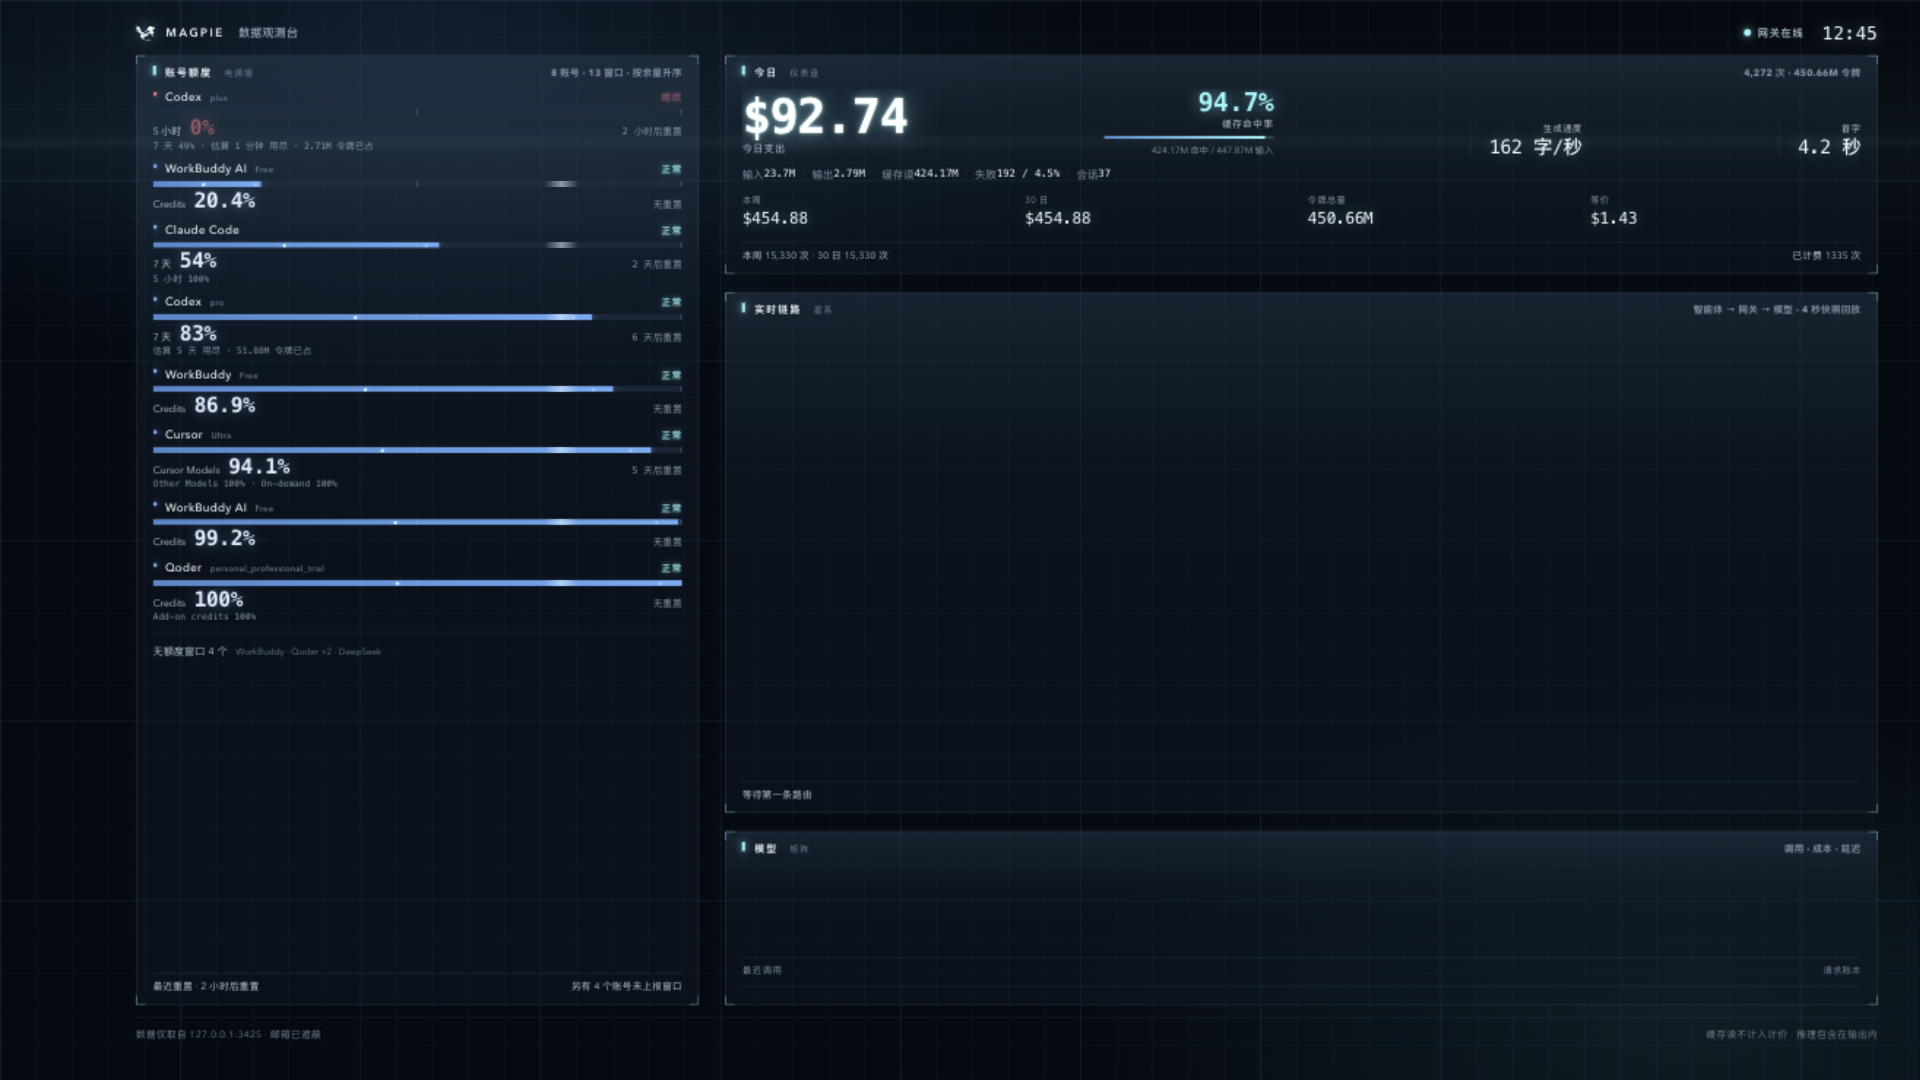
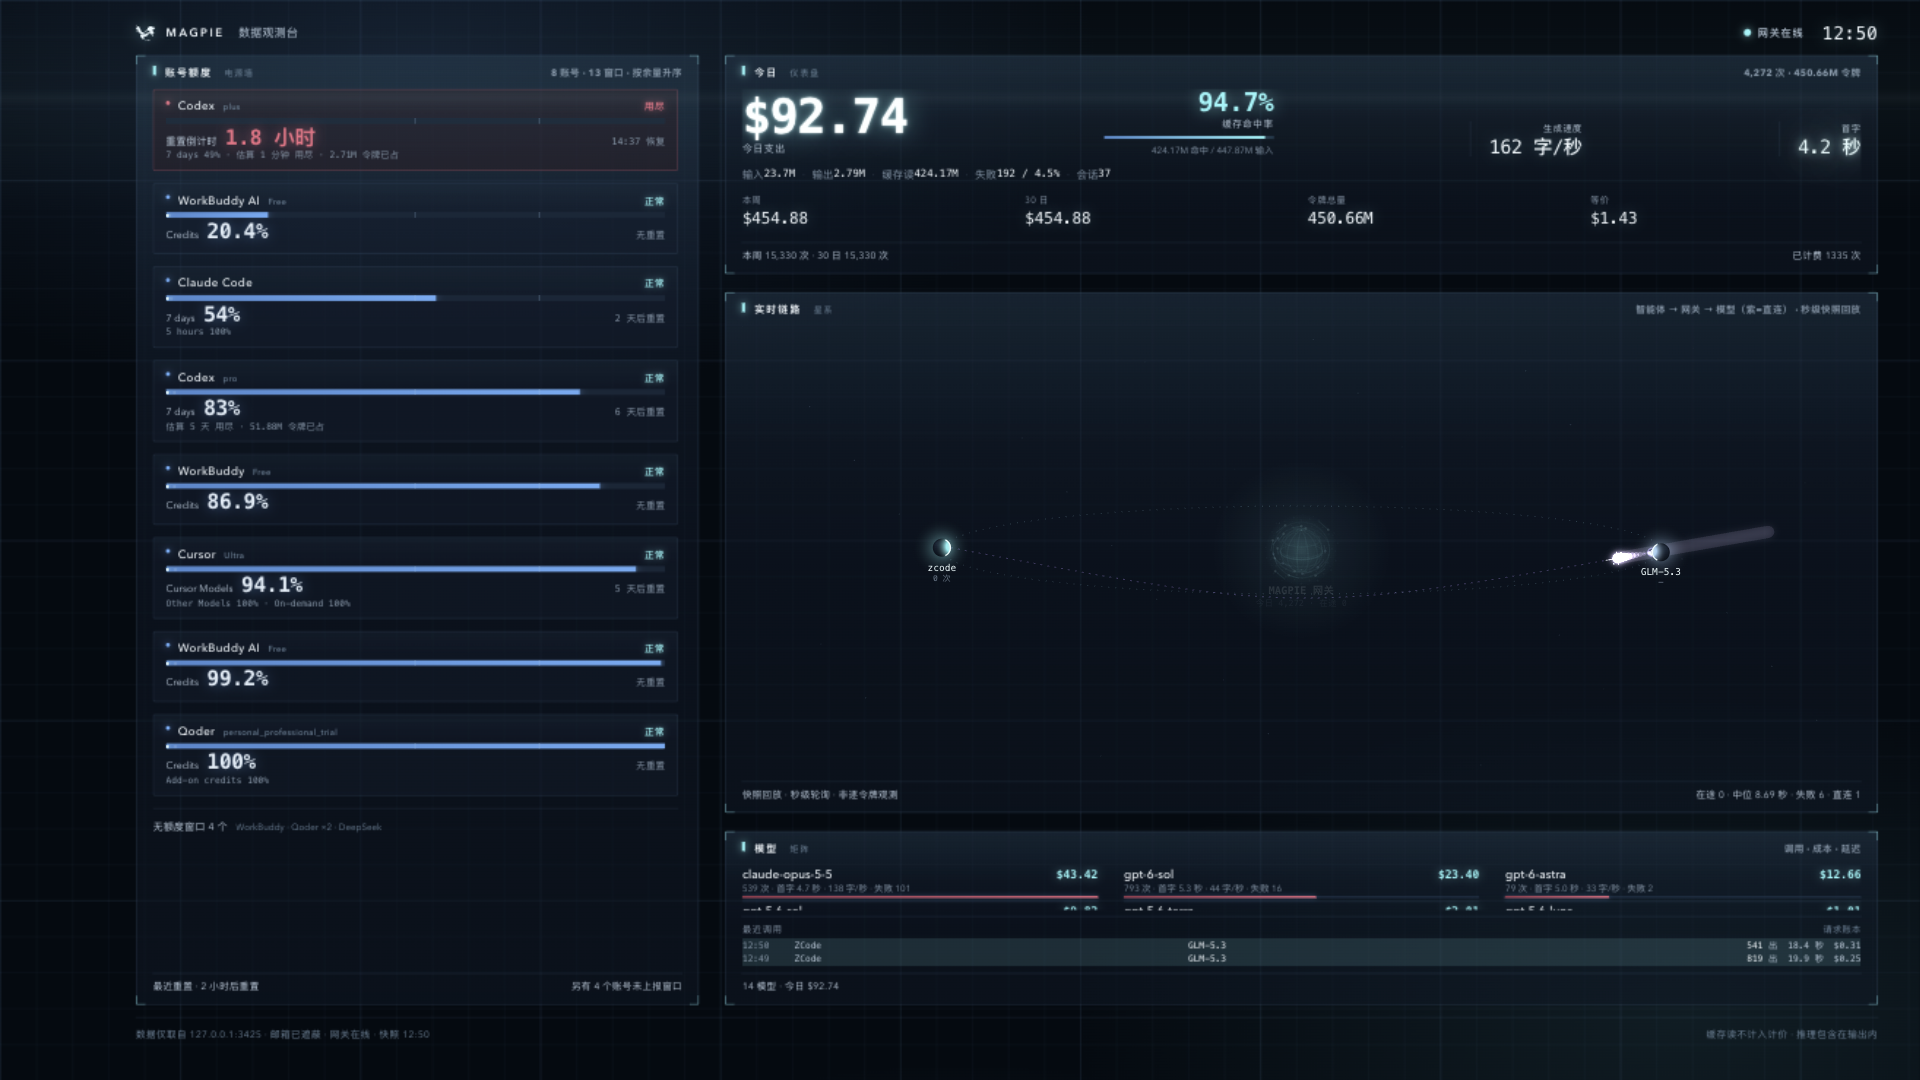
窗口名恢复原文、账号机架单元分隔、1 秒快循环与粒子流传输

diff --git a/design/dashboard.js b/design/dashboard.js
@@ -214,12 +214,6 @@
     return { name: line.name, etaH };
   }
   const etaText = (h) => h < 1 ? Math.max(1, Math.round(h * 60)) + ' 分钟' : h < 48 ? h.toFixed(1) + ' 小时' : Math.round(h / 24) + ' 天';
-  /* 窗口名中文化：网关返回的是 5 hours / 7 days / Total 这类英文名，展示层映射成中文；
-     没映射的（新窗口类型）原样显示，数据关联始终用原始名。 */
-  const WIN_CN = { '5 hours': '5 小时', '7 days': '7 天', '1 day': '1 天', '24 hours': '24 小时',
-                   '30 days': '30 天', '1 week': '1 周', '1 month': '1 月', 'total': '总量', 'Total': '总量' };
-  const winName = (n) => WIN_CN[n] || n;
-
   function renderQuotas(quotas, history) {
     const accounts = quotas.data || [];
     // 整块右侧全给额度：按账号分组，每个账号列出它所有窗口，不折叠、不裁切。
@@ -308,7 +302,7 @@
           main.children[1].textContent = resetShort(lead.resetsAt);
           main.children[2].textContent = lead.resetsAt ? clockOf(lead.resetsAt) + ' 恢复' : '';
         } else {
-          main.children[0].textContent = winName(lead.name) || '额度';
+          main.children[0].textContent = lead.name || '额度';
           main.children[1].textContent = typeof lead.remaining === 'number' ? pct(lead.remaining) : (lead.display || '—');
           main.children[2].textContent = resetText(lead.resetsAt);
         }
@@ -324,7 +318,7 @@
         // 小字行：其余窗口「名 剩余」串 + 估算 + 占用，一行收拢。
         const bits = [];
         g.wins.slice(1).forEach((w) => {
-          bits.push(winName(w.name) + ' ' + (typeof w.remaining === 'number' ? pct(w.remaining) : (w.display || '—')));
+          bits.push(w.name + ' ' + (typeof w.remaining === 'number' ? pct(w.remaining) : (w.display || '—')));
         });
         if (g.eta && g.eta.name === lead.name) bits.push('估算 ' + etaText(g.eta.etaH) + ' 用尽');
         if (lead.holds && lead.holds.tokens) bits.push(compact(lead.holds.tokens) + ' 令牌已占');
@@ -343,7 +337,7 @@
       !!nearest && (new Date(nearest.resetsAt) - Date.now()) / 60000 < 90);
     $('quota-foot2').textContent = noWin
       ? '另有 ' + noWin + ' 个账号未上报窗口'
-      : (fastest ? '最快燃尽 · ' + winName(fastest.name) + ' · 估算 ' + etaText(fastest.etaH) + ' 用尽' : '');
+      : (fastest ? '最快燃尽 · ' + fastest.name + ' · 估算 ' + etaText(fastest.etaH) + ' 用尽' : '');
     $('quota-foot2').classList.toggle('soon', !noWin && !!fastest);
   }
 
@@ -572,7 +566,6 @@
   }
 
   function drawRouteComet(ctx, p, t0, t1, color, width, now, reduce) {
-    const steps = 10;
     ctx.save();
     ctx.lineCap = 'round';
     ctx.shadowColor = color;
@@ -590,31 +583,17 @@
       }
       ctx.stroke();
     }
-    // 外圈柔光：一次更宽更淡的描边，给彗星体积感。
-    ctx.globalAlpha = 0.09;
-    ctx.lineWidth = width * 2.8;
-    ctx.strokeStyle = color;
-    {
-      const [sx, sy] = cubicAt(p, t0);
-      const [ex, ey] = cubicAt(p, t1);
+    // 粒子流：一串光点沿路径传输（近头部大而亮，向尾端小而暗），像数据在管道里流动。
+    const DOTS = 9;
+    for (let k = 0; k < DOTS; k += 1) {
+      const tt = t1 - (k / DOTS) * (t1 - t0);
+      const [dx2, dy2] = cubicAt(p, tt);
+      const fade = 1 - k / DOTS;
+      ctx.globalAlpha = 0.16 + 0.74 * fade * fade;
+      ctx.fillStyle = k < 3 ? '#dffcff' : color;
       ctx.beginPath();
-      ctx.moveTo(sx, sy);
-      ctx.lineTo(ex, ey);
-      ctx.stroke();
-    }
-    // 尾巴：淡 → 亮两段，头部一颗亮点。
-    for (let i = 0; i < steps; i += 1) {
-      const a = t0 + (t1 - t0) * (i / steps);
-      const b = t0 + (t1 - t0) * ((i + 1) / steps);
-      ctx.strokeStyle = color;
-      ctx.globalAlpha = 0.12 + 0.7 * (i / steps);
-      ctx.lineWidth = width * (0.5 + 0.5 * (i / steps));
-      ctx.beginPath();
-      const [x0, y0] = cubicAt(p, a);
-      const [x1, y1] = cubicAt(p, b);
-      ctx.moveTo(x0, y0);
-      ctx.lineTo(x1, y1);
-      ctx.stroke();
+      ctx.arc(dx2, dy2, Math.max(0.6, width * (1.35 - k * 0.11)), 0, Math.PI * 2);
+      ctx.fill();
     }
     const [hx, hy] = cubicAt(p, t1);
     ctx.globalAlpha = 1;
@@ -1437,14 +1416,14 @@
     // 页脚吸收原实时数据流的关键读数：在途 / 中位耗时 / 失败。
     const okMsList = rows.filter((r) => r.done && r.ms).map((r) => r.ms);
     const badCount = rows.filter((r) => r.bad).length;
-    $('route-foot').textContent = '快照回放 · 4 秒轮询 · 非逐令牌观测';
+    $('route-foot').textContent = '快照回放 · 秒级轮询 · 非逐令牌观测';
     const directTail = directRows.length ? ' · 直连 ' + directRows.length : '';
     $('route-foot2').textContent = !rows.length && !directRows.length
       ? '等待第一条路由'
       : idle
         ? '网关待机 · 中位 ' + secs(median(okMsList)) + ' · 最近 ' + rows.length + ' 条' + directTail
         : '在途 ' + running + ' · 中位 ' + secs(median(okMsList)) + (badCount ? ' · 失败 ' + badCount : '') + directTail;
-    $('route-note').textContent = '智能体 → 网关 → 模型' + (directRows.length ? '（紫=直连）' : '') + ' · 4 秒快照回放';
+    $('route-note').textContent = '智能体 → 网关 → 模型' + (directRows.length ? '（紫=直连）' : '') + ' · 秒级快照回放';
 
     routeTick.rows = rows;
     routeTick.todayCalls = (bundle.today && bundle.today.calls) || 0;
@@ -1536,11 +1515,33 @@
   tickClock();
   setInterval(tickClock, 1000);
 
-  /* 轮询与 Watch 一致：先取数据再等待，周期 4 秒。 */
+  /* 轮询分两层：主循环 4 秒全量；快循环 1 秒只拉 trace 与请求账本，
+     星系舞台与最近调用因此接近实时。trace 是快照语义，不声称逐令牌流。 */
   (async function loop() {
     for (;;) {
       await refresh();
       await new Promise((resolve) => setTimeout(resolve, POLL_MS));
     }
   })();
+
+  let fastBusy = false;
+  async function refreshFast() {
+    if (fastBusy || !lastGood) return;
+    fastBusy = true;
+    try {
+      const [trace, requests] = await Promise.all([
+        get('/v1/magpie/trace'),
+        get('/v1/magpie/usage/requests?period=today&limit=6').catch(() => null)
+      ]);
+      lastGood.trace = trace;
+      if (requests) lastGood.requests = requests;
+      renderRouteStage(lastGood);
+      renderCalls(lastGood.requests);
+    } catch (error) {
+      // 快循环失败不打扰画面：网关状态交给主循环判定。
+    } finally {
+      fastBusy = false;
+    }
+  }
+  setInterval(refreshFast, 1000);
 })();

diff --git a/design/dashboard.css b/design/dashboard.css
@@ -449,13 +449,24 @@ main {
   grid-template-columns: minmax(0, 1fr);
   grid-auto-rows: min-content;
   align-content: start;
-  row-gap: 9px;
+  row-gap: 12px;
   /* 账号多到一屏放不下时整列滚动，绝不裁掉最后几个账号。 */
   overflow-y: auto;
   scrollbar-width: none;
+  padding-right: 4px;
 }
 .q-list::-webkit-scrollbar { width: 0; }
-.q-group { min-width: 0; }
+/* 每个账号一个机架单元：细框 + 微底色，状态异常时整格带一层淡色警示 */
+.q-group {
+  min-width: 0;
+  border: 1px solid var(--hair);
+  border-radius: 2px;
+  padding: 8px 12px 9px;
+  background: rgba(13, 28, 48, 0.38);
+  background-image: linear-gradient(180deg, rgba(111, 242, 255, 0.025), transparent 34%);
+}
+.q-group.st-warn { background-color: rgba(58, 42, 22, 0.32); border-color: rgba(255, 188, 125, 0.22); }
+.q-group.st-bad { background-color: rgba(56, 24, 26, 0.34); border-color: rgba(255, 122, 122, 0.26); }
 
 /* 账号名是这一组的主语：字号比窗口名大一档，前面一枚发光圆点 */
 .q-group > h3 {

diff --git a/HANDOFF.md b/HANDOFF.md
@@ -28,6 +28,11 @@
 - **原生界面中文化**（用户反馈「token 还保持不变」：壁纸已中文化，但菜单/窗口/小组件还是 Token）：菜单栏「Token 消耗明细…」→「令牌消耗明细…」（⌘T 不变）；消耗窗口标题/正文/「输出内推理、缓存写入 X Token」→ 令牌；上下文主项「N tok」→「N 令牌」；小组件令牌流向「Token 流向」→「令牌流向」、「tok/s」→「字/秒」（`Fmt` 速度格式同步）。模型/智能体名保留原文。
 - **右下模块：智能体 → 模型矩阵**（用户：智能体模块换成其他的）：`usage.models` 按**模型名**聚合（原始按 provider/model@账号 拆分、host 含邮箱绝不透出），今日成本降序最多 6 块——名字 + 成本 + 「N 次 · 首字 X 秒 · Y 字/秒 · 失败 N」+ **成本占比条**（有失败的模型条转红）；页脚「N 模型 · 今日 $X」；「另 N 个」合并第 7+ 个。最近调用明细带保留。智能体的活动状态由星系行星表达（调用数/中位延迟标在行星下），成本归属在「令牌消耗明细」窗口——壁纸不再重复列智能体排行。
 - **用尽读数去重**（用户：「用尽和 0% 重复了」）：用尽账号的大数字不再显示 0%（状态词已说用尽），改为**重置倒计时**——「重置倒计时 · N 分钟（大号红字）· HH:MM 恢复」，直接回答「多久回来」。
+- **专业名词 + 账号分隔 + 实时化**（用户三条反馈）：
+  - 额度窗口名恢复产品原文（5 hours / 7 days / Total）——这些是额度窗口的官方术语，不再映射中文；其余界面仍中文。
+  - 账号分隔：每个账号一个**机架单元**——细框 + 微底色 + 间距 12px，状态异常整格带淡色警示底（紧张/用尽红调、临近重置琥珀调），一眼分清账号边界。
+  - **1 秒快循环**：主循环仍 4 秒全量；新增 `refreshFast`（1s，只拉 trace + 请求账本，in-flight 防重入，失败静默）驱动星系舞台与最近调用，接近实时；文案改「秒级快照回放」（trace 仍是快照语义，不声称逐令牌流）。
+  - **粒子流传输**：彗星尾迹从实线光带改为一串 9 颗光点沿路径流动（近头部大而亮→尾端小而暗），配合宽辉光尾流，观感是「数据在管道里传输」。
 - 本轮验证：真实数据截图核对（燃尽曲线下降形态、估算 3.7 小时、节奏图峰值 158 次 @13 时、占比条与活跃标注）；全屏概览与桌面全量两态截图确认；`impeccable detect` 无 error；`swift build` / `swift test` / `./build-app.sh` 通过。
 
 ## 2026-10-24：链路舞台按触发出场 + 常驻 3D 网关核心
